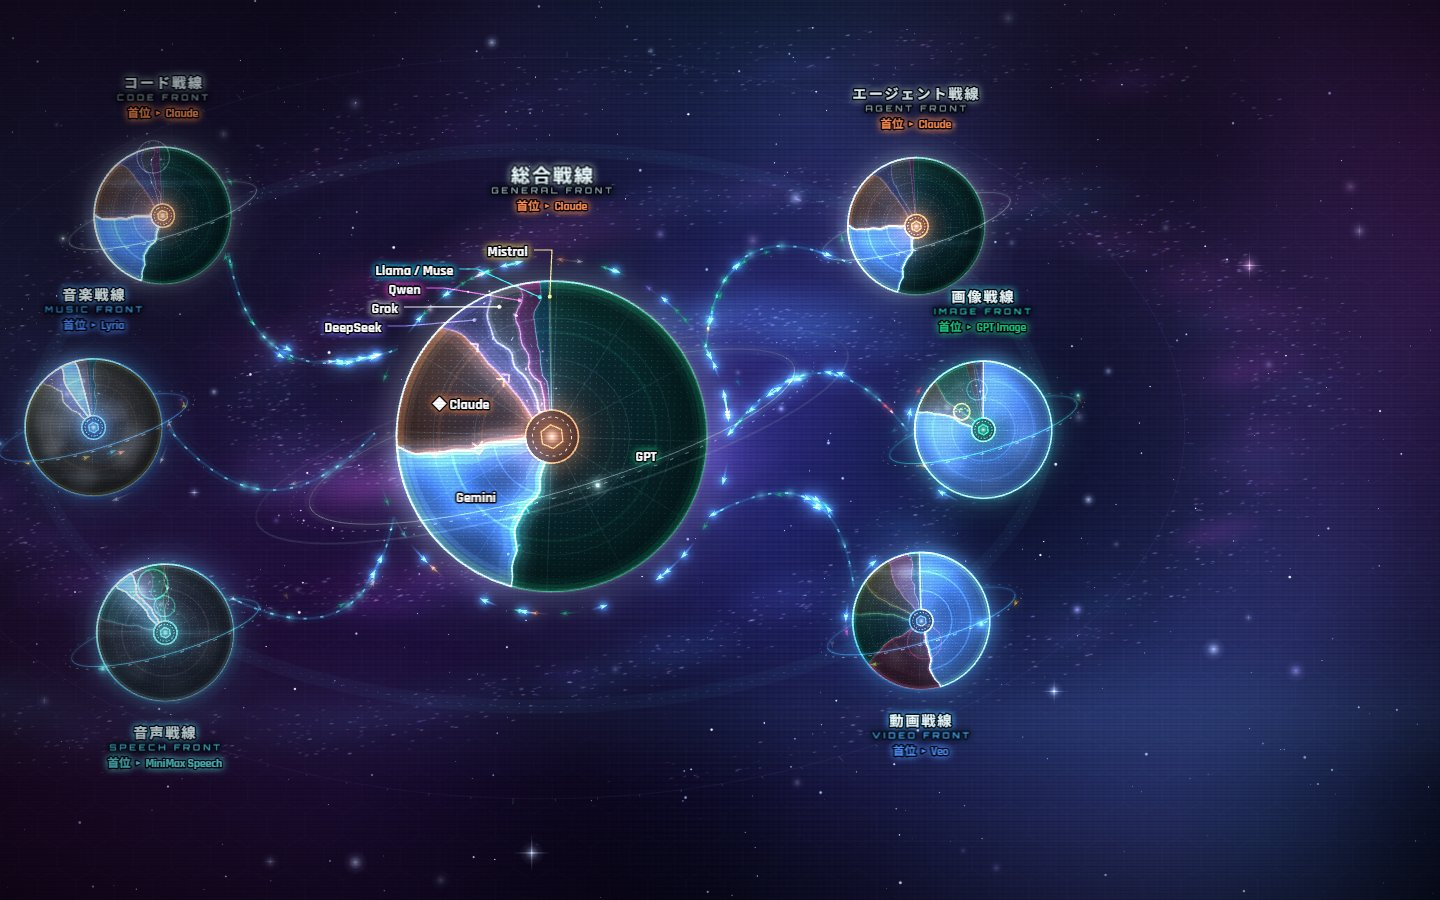
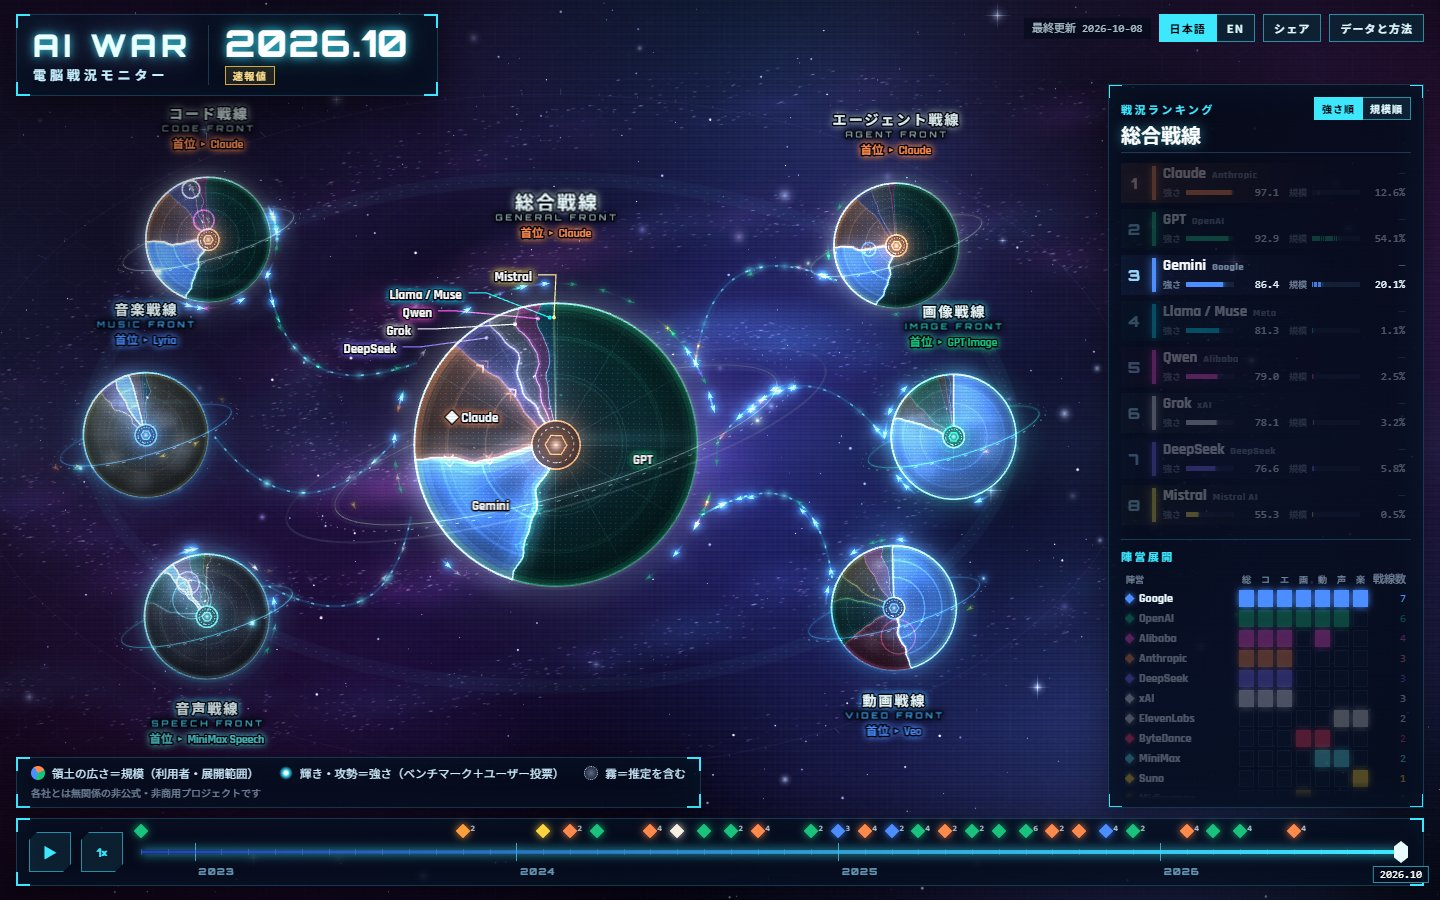
chore(site): visual QA fixes
Stage 2 visual QA report (docs/superpowers/recon/stage2-qa.md: screenshot list,
fps before/after, fixes, known limitations) and refreshed README screenshots
(mockups/shots/site-galaxy-latest, -latest-mobile, -zoom-general, -hover-google)
from the final production-build shots.

diff --git a/docs/superpowers/recon/stage2-qa.md b/docs/superpowers/recon/stage2-qa.md
@@ -1,0 +1,67 @@
+# Stage 2 visual QA (Task 16) — 2026-10-09
+
+Production build (`npm run build` + `vite preview`), headless Chrome 154 on an RTX 4070 SUPER (ANGLE / D3D11), driven by
+`site/scripts/shoot.mjs` (new: `--reduced-motion`, CDP `Emulation.setEmulatedMedia`). Data: `world.json` through
+2026-10 (partial month). The final shots (56) are in the session scratchpad `shots9/`; the README screenshots in
+`mockups/shots/site-*.jpg` were refreshed from them.
+
+## Screenshots
+
+| set | shots |
+| --- | --- |
+| galaxy, 1440×900 | `galaxy-{2023-03,2024-06,2025-03,2025-11,2026-10}` |
+| galaxy, other sizes | `galaxy-2026-10` 1280×720 / 1920×1080, `galaxy-en` 1440×900 / 1280×720, `galaxy-en-2025-03` 1280×720 / 1920×1080, `galaxy-en-2023-03` |
+| fronts zoomed at 2026-10, 1440×900 | `front-{general,code,agent,image,video,speech,music}`, `front-video-2023-03` (empty front) |
+| fronts, other | `front-general` 1280×720 / 1920×1080, `front-{code,speech,agent}-en`, `front-code-en` 1280×720 |
+| detail panel | `detail-general` 1440×900 / 1280×720 (mid-glide 3.2 s and settled 5 s), `detail-video-en` 1440×900 / 1920×1080 |
+| org highlight | `hover-google` (galaxy), `hover-openai-general` (zoomed) |
+| reduced motion | `rm-galaxy` 1440×900, `rm-general` 1440×900 / 390×844 |
+| mobile 390×844 / 360×780 | `m-front-{general,image,speech}`, `m-front-music-en`, `m-map`, `m-map-en`, `m-sheet`, `m-sheet-en`, `m-front-video-2023-03` |
+| data & method page | `methods-ja`, `methods-en` at 1440×900 and 390×844 |
+| showcase | `best-galaxy-1920x1080`, `best-zoom-general-1440x900`, `best-zoom-video-1440x900`, `best-detail-general-1440x900`, `best-mobile-general-390x844` |
+
+Every run: no console errors, exceptions, failed requests or warnings.
+
+## fps
+
+`--fps --fps-ms 6000`, auto quality (no `?quality` pin), before = d9bce65, after = this branch.
+
+| scenario | before | after |
+| --- | --- | --- |
+| 1440×900 galaxy / zoomed general / general + detail panel | 59.8 / 59.8 / 59.8 | 59.8 / 59.8 / 59.8 |
+| 390×844 zoomed general / bottom sheet open / galaxy map | 59.7 / 59.8 / 59.8 | 59.8 / 59.8 / 59.8 |
+| 1440×900 zoomed general, `--cpu-throttle 4` (4 runs) | 35.1, 27.5, 33.9, 30.8 | 45.5, 29.3, 36.0, 32.9 |
+| 1440×900 general + detail (backdrop blur), throttle 4 (3 runs) | 27.3, 31.7, 31.8 | 26.4, 38.3, 36.6 |
+| 390×844 zoomed general, throttle 4 (4 runs) | 59.0, 54.6, 54.0, 54.1 | 55.4, 50.3, 59.2, 54.8 |
+
+Unthrottled runs sit at the 60 Hz cap. Throttled runs are noisy (the quality governor steps down at different
+moments); on average nothing got slower. No per-frame `Graphics.clear()` or allocations were added: the battle
+reads the viewport once per frame, the fog fade only writes `alpha` when it changes, and the empty-front caption is
+one `Text` made at start-up.
+
+## Fixes
+
+| before | after |
+| --- | --- |
+| Galaxy: code-front title under the HUD title box (fixed top inset 76, title box ends at 96; EN box is wider) | Desktop insets are measured from the HUD boxes (title, ranking panel, legend, timeline; `ResizeObserver` for language / font changes) plus `TITLE_ROOM` for the screen-size planet titles in the overview; small satellites drop the unreadable sub-title line |
+| Galaxy: speech-front lead line under the legend; video-front title close to the timeline | bottom inset = above the legend (not just the timeline) |
+| Detail panel: battle labels ghosting through it; the planet stays under the panel | Panel 0.95 opaque + `backdrop-filter: blur(12px)`; an open panel pushes the framed area right and the camera glides there (600 ms), as far as the frame stays landscape (no galaxy re-arrangement at 768–1023 px); narrow landscape frames cap the planet at 0.3 × width so the label columns fit; battle label columns stay inside the framed area on desktop |
+| Zoomed: "最終更新 2026-10-08" over a neighbouring planet; tool buttons translucent over planets | dark backing + text-shadow on the meta line; tool buttons get a dark base under their cyan tint |
+| Mobile bottom sheet: ranking rows ghost through (0.97) | sheet opaque, no blur (no cost on phones) |
+| Breakdown table head "寄与" broke into one glyph per line | column heads `nowrap` |
+| Zoomed battle: large estimated / mid-strength territories read as an empty dark planet (music, image, speech) | battle veil 0.72 → 0.5, the planet's fog thins by 45 % while zoomed; galaxy fog slightly lighter (veil 0.32 → 0.30, puffs 0.5 → 0.42) |
+| Empty fronts (video before 2024): a bare dark sphere, "未参戦" trailing at the bottom of a huge empty mobile ranking box | "― 未参戦 ― / No units yet" caption on the zoomed planet; empty ranking styled as an idle sector (dashed frame, faint stripes), centred in the mobile list |
+| Deployment matrix cut mid-row at the bottom of the ranking panel | its slot takes the panel's remaining height: the matrix scrolls and fades out at the edge |
+| Neighbouring planets competing with the ranking text | HUD glass 0.82 → 0.86 |
+| Timeline: month badge cut the year label ("202[2025.03]") | the covered year label fades out (desktop timeline) |
+
+## Known limitations
+
+- The overview is ~14 % smaller at 1440×900 than before (it now stays clear of the title box and the legend); at
+  1280×720 it is noticeably compact.
+- Mobile battle labels are placed over the planet's left edge (by design, no room beside it); with many units a
+  label is occasionally skipped for a frame or two when swarm centroids cross.
+- Speech (ElevenLabs) and video (Luma) use pale org colours, so those territories look grey rather than coloured.
+- 768–1023 px windows with the detail panel open: the planet is only partly pushed out from under the panel.
+- The mobile galaxy map shows the hub's territory names only when the hub is ≥ 95 px (not in EN at 390×844, nor at
+  360×780).
